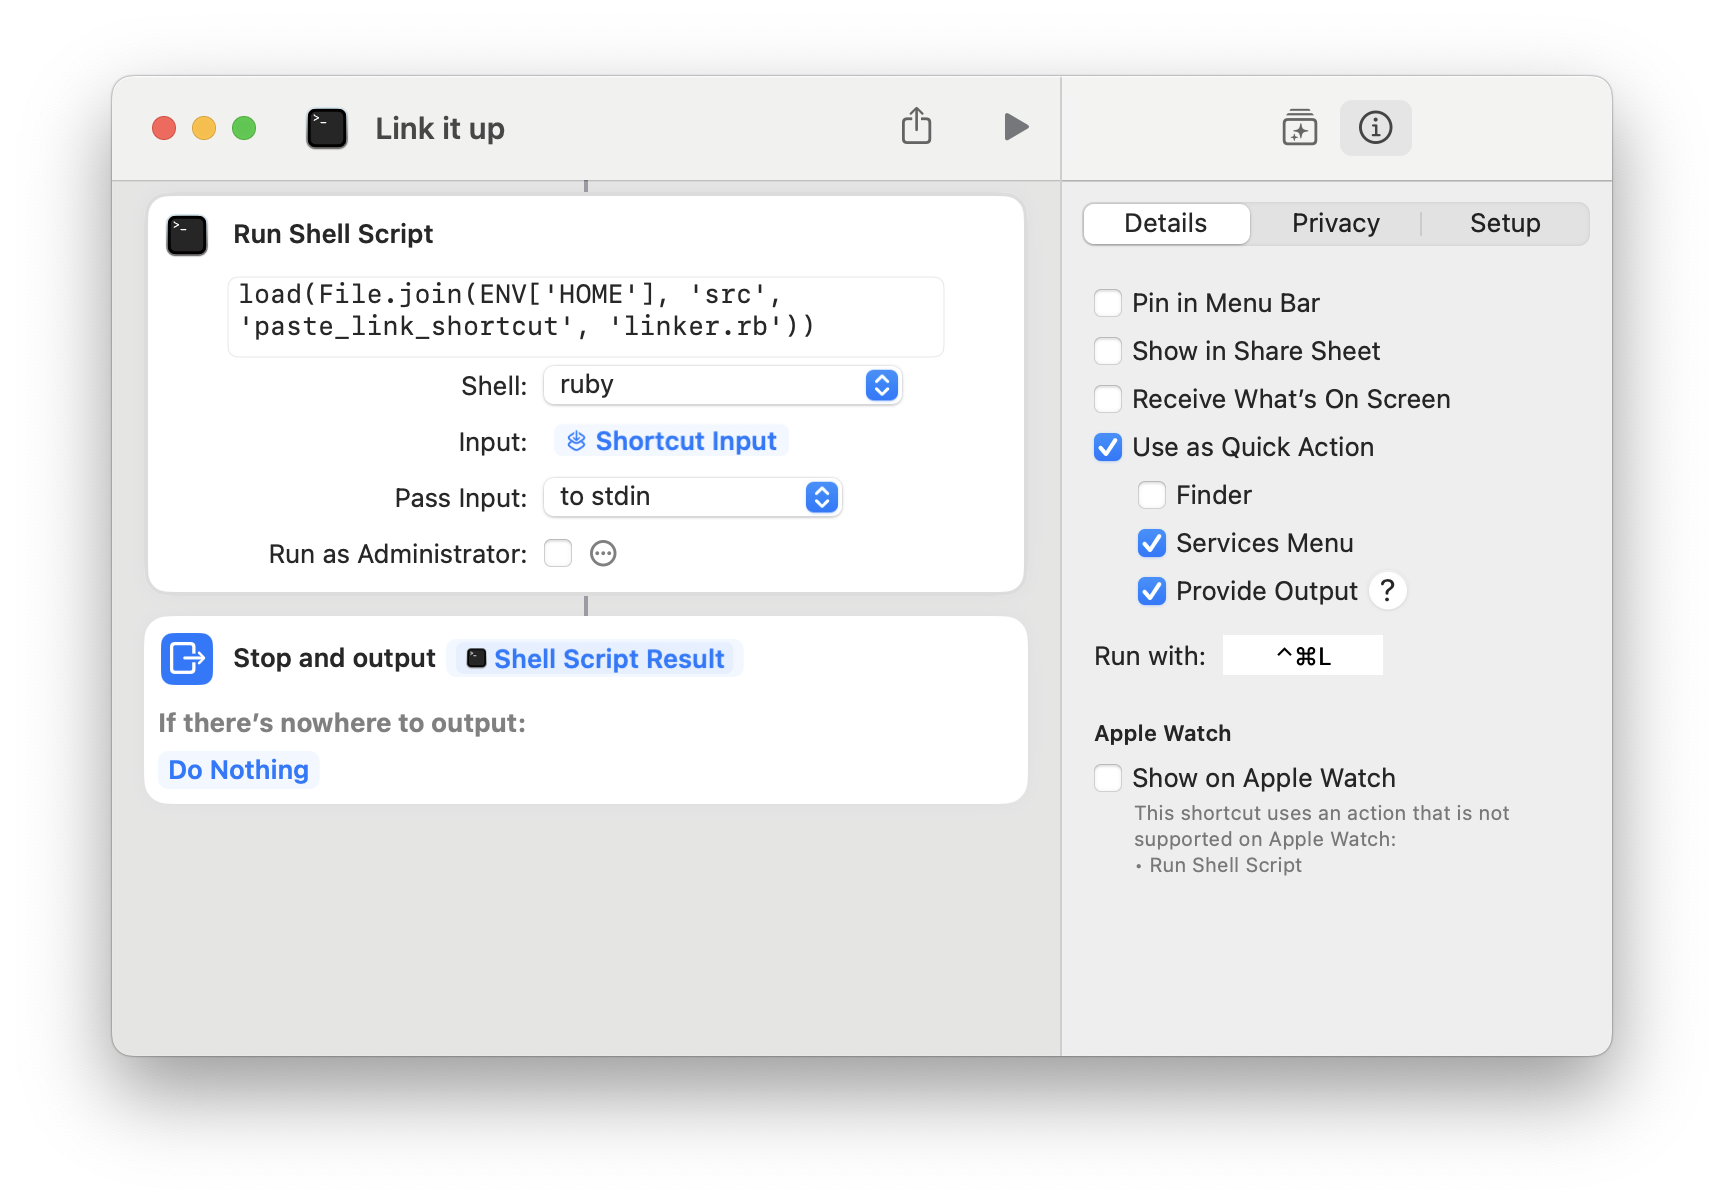
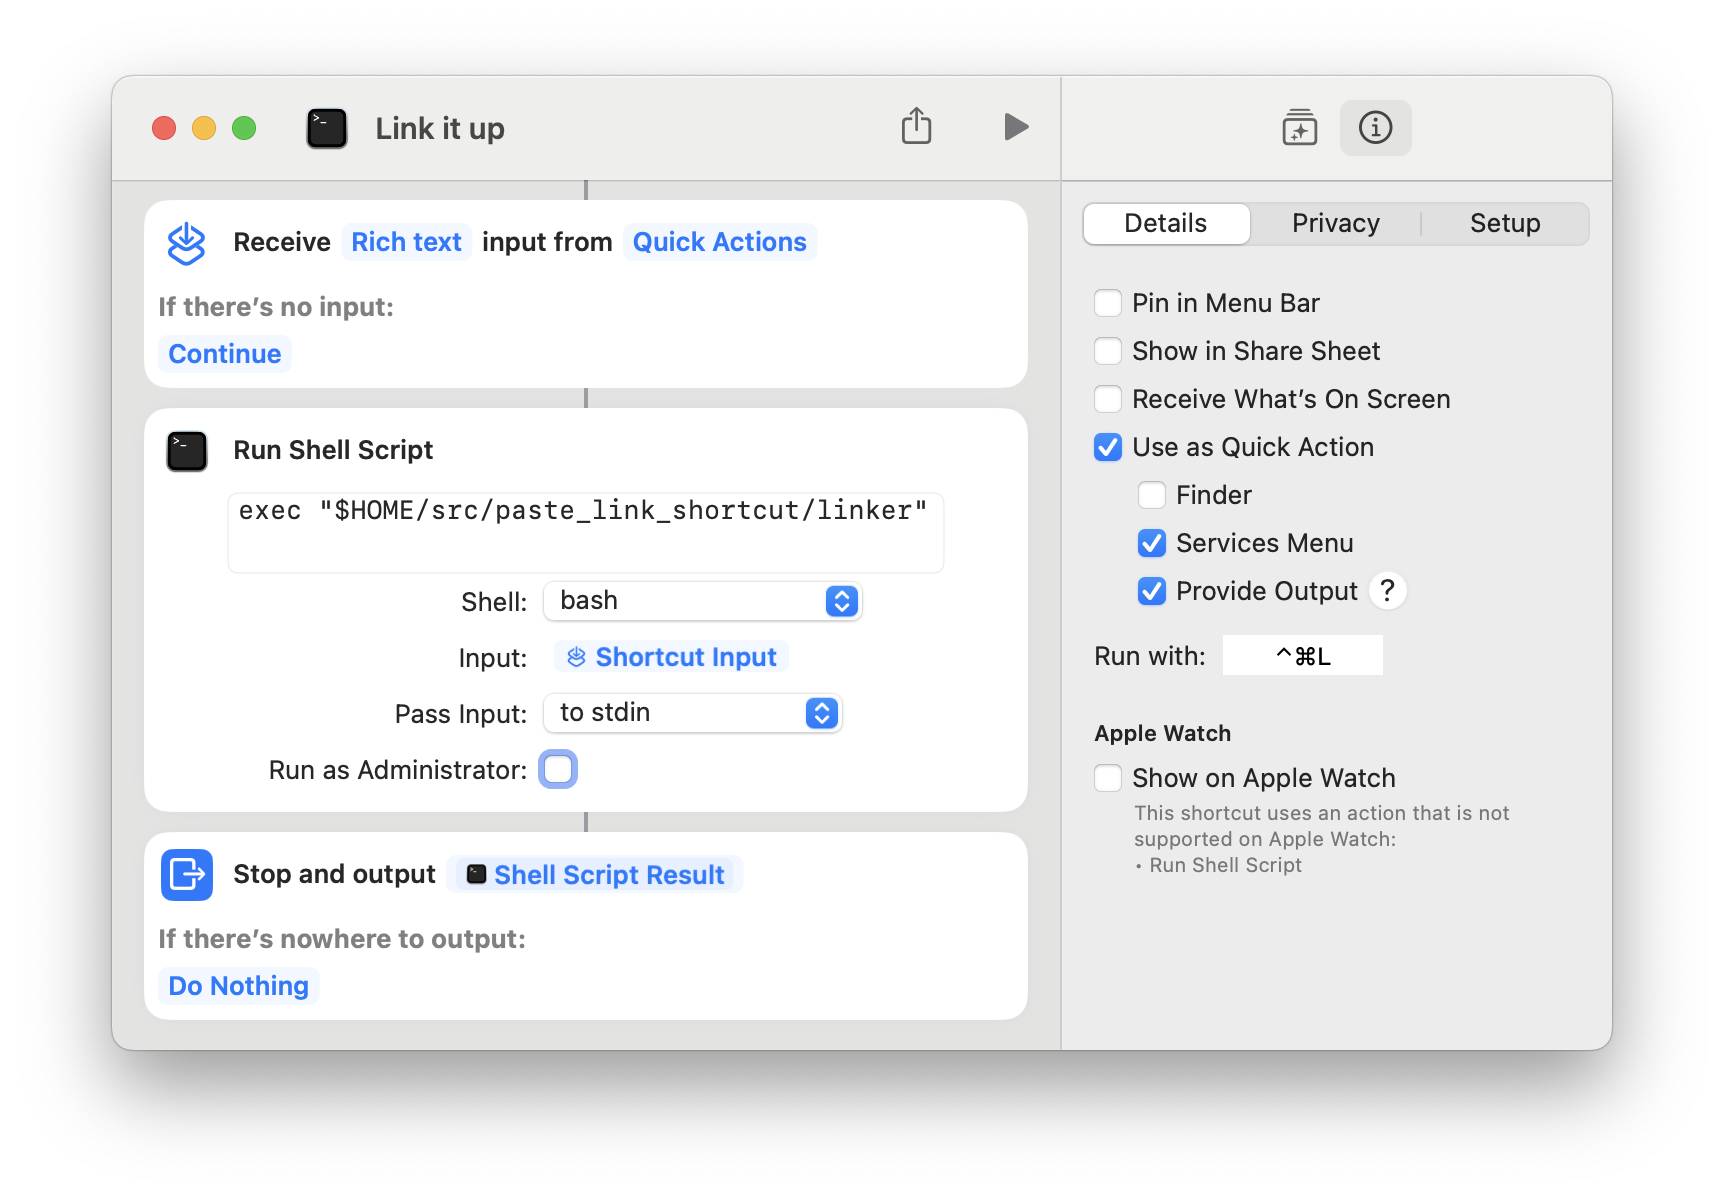
Rewrite in Swift for speed
Directly manipulate RTF instead of doing expensive conversion to HTML
and back.

ChatGPT got this ~90% of the way there but couldn't handle the compiler
errors, lol.

diff --git a/linker.swift b/linker.swift
@@ -1,0 +1,80 @@
+import Foundation
+import AppKit
+
+// Extensions for log file appending
+extension String {
+    func appendLineToURL(fileURL: URL) throws {
+        try (self + "\n").appendToURL(fileURL: fileURL)
+    }
+
+    func appendToURL(fileURL: URL) throws {
+        let data = self.data(using: String.Encoding.utf8)!
+        try data.append(fileURL: fileURL)
+    }
+}
+
+extension Data {
+    func append(fileURL: URL) throws {
+        if let fileHandle = FileHandle(forWritingAtPath: fileURL.path) {
+            defer {
+                fileHandle.closeFile()
+            }
+            fileHandle.seekToEndOfFile()
+                fileHandle.write(self)
+        }
+        else {
+            try write(to: fileURL, options: .atomic)
+        }
+    }
+}
+
+let logFileURL = URL(fileURLWithPath: NSHomeDirectory()).appendingPathComponent("linker.log")
+try? "-----".appendLineToURL(fileURL: logFileURL)
+
+let startTime = Date()
+
+// Access the URL from the system clipboard
+let clipboard = NSPasteboard.general
+guard let urlString = clipboard.string(forType: .string),
+let linkURL = URL(string: urlString),
+linkURL.scheme != nil else {
+    try? "Invalid URL on clipboard, exiting".appendLineToURL(fileURL: logFileURL)
+    // Exit the script if clipboard content is not a valid URL
+    exit(0)
+}
+
+// Read RTF data from standard input
+let rtfData = FileHandle.standardInput.readDataToEndOfFile()
+let rtfString = String(data: rtfData, encoding: .utf8)
+
+// Validate if the input is in RTF format
+guard let unwrappedRtfString = rtfString, unwrappedRtfString.contains("{\\rtf") else {
+    try? "Invalid RTF data input, exiting".appendLineToURL(fileURL: logFileURL)
+    // Exit the script if input is not in RTF format
+    exit(0)
+}
+
+// Create an attributed string from RTF data
+let attributedString = try NSAttributedString(data: Data(unwrappedRtfString.utf8), options: [:], documentAttributes: nil)
+
+// Add a link attribute to the entire attributed string
+let linkedString = NSMutableAttributedString(attributedString: attributedString)
+linkedString.addAttribute(.link, value: linkURL, range: NSRange(location: 0, length: linkedString.length))
+
+// Convert the modified attributed string back to RTF data
+if let modifiedRTFData = try? linkedString.data(from: NSRange(location: 0, length: linkedString.length), documentAttributes: [NSAttributedString.DocumentAttributeKey.documentType: NSAttributedString.DocumentType.rtf]) {
+    // Write the modified RTF data to standard output
+    FileHandle.standardOutput.write(modifiedRTFData)
+
+    // Calculate elapsed time in milliseconds
+    let endTime = Date()
+    let elapsedTime = endTime.timeIntervalSince(startTime) * 1000
+
+    // Append the elapsed time to the log file
+    let logEntry = String(format: "Elapsed time: %.2f ms", elapsedTime)
+    try? logEntry.appendLineToURL(fileURL: logFileURL)
+} else {
+    try? "Failed to convert attributed string to RTF data, exiting".appendLineToURL(fileURL: logFileURL)
+    // Exit the script if conversion fails
+    exit(0)
+}

diff --git a/README.md b/README.md
@@ -6,18 +6,24 @@ I wrote this because the UI to add a link in Apple Notes on macOS Sonoma is disa
 
 ## Installation
 
-Clone this repo and then create a shortcut in Shortcuts like so:
+Clone this repo, then compile the script:
+
+```
+swiftc linker.swift
+```
+
+Then create a shortcut in Shortcuts like so:
 
 ![Image showing Shortcuts setup](screenshot.png)
 
-Make sure the path matches the location where you cloned the repo.
+Make sure the path matches the location where you cloned the repo. Choose whatever keyboard shortcut works for you.
 
 ## Caveats
 
-- I've only tested this using Apple Notes so I have no idea if it works in any other application.
+- I've only tested this using Apple Notes and TextEdit so I have no idea if it works in other applications.
 - Output may be a little weird depending on the formatting of the selected text. I've only really tested it with selections inside a paragraph or list item.
 - The script will silently do nothing if:
   - It doesn't think the clipboard contains a link
   - The selection doesn't seem to support output of links (e.g. selection is plain text rather than rich text)
-  - The selection already contains a link
-  - The selection spans multiple paragraphs/list items
+- If the selected text already contains links, they will be overwritten.
+- Font size is not preserved, at least in Apple Notes. Heading vs. body text should be preserved though.
